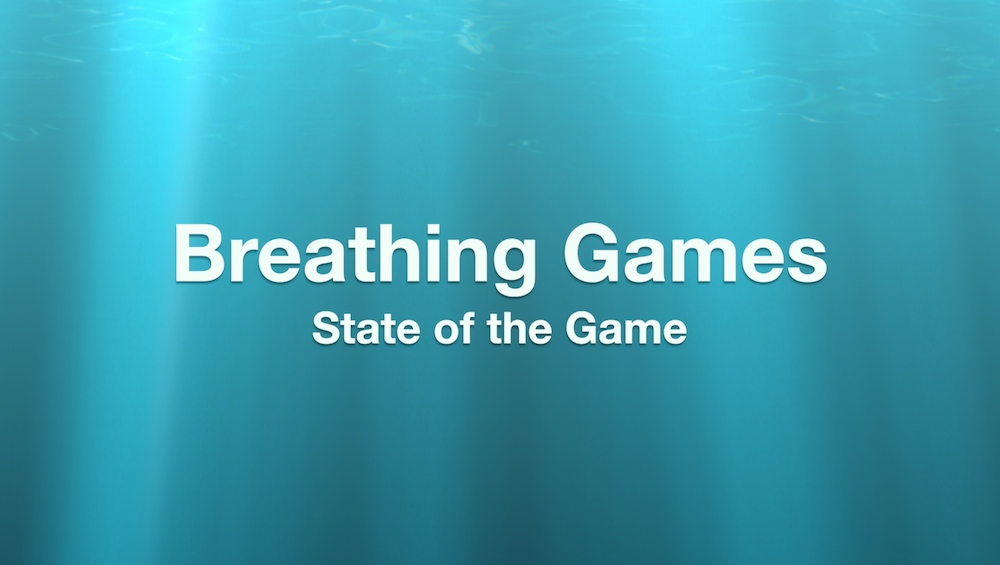
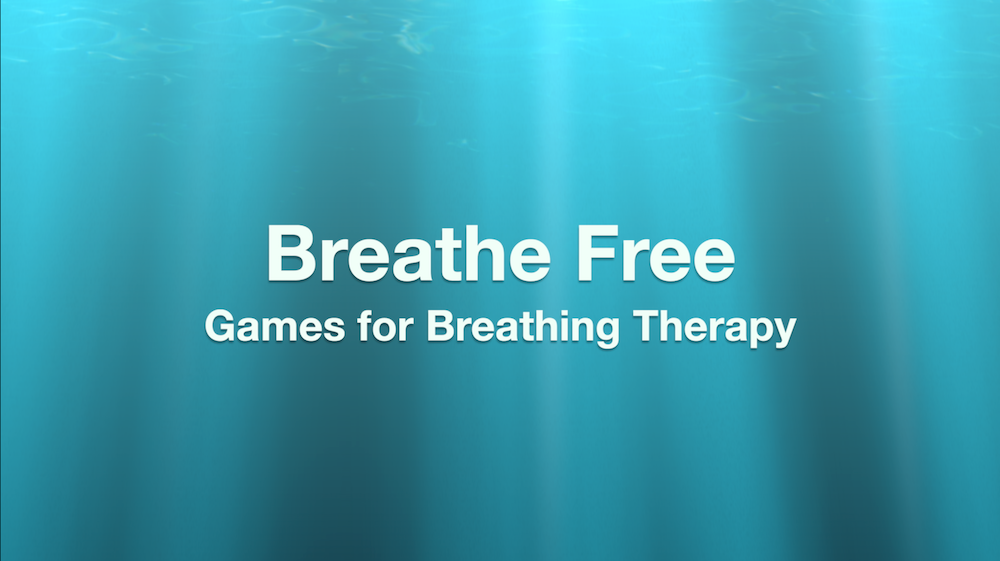
wip

diff --git a/content/project/breathing-games/index.md b/content/project/breathing-games/index.md
@@ -1,5 +1,5 @@
 ---
-title: Breathing Games
+title: Breathe Free
 summary: Using Oculus VR to make breathing exercises fun for children with cystic fibrosis.
 tags:
 - virtual reality
@@ -8,7 +8,7 @@ tags:
 date: "2020-03-16T00:00:00Z"
 
 # Optional external URL for project (replaces project detail page).
-external_link: "https://spirometervr.github.io"
+external_link: "https://spirometervr.github.io/breathe"
 
 image:
   caption: Virtual reality with a purpose
@@ -29,12 +29,6 @@ links:
   icon_pack: fas
   name: GDD
   url: ../../pdf/breathing_games_GDD.pdf
-
-# - icon: github
-#  icon_pack: fab
-#  name: GitHub
-#  url: https://github.com/SpirometerVR
-
 
 ---
 
